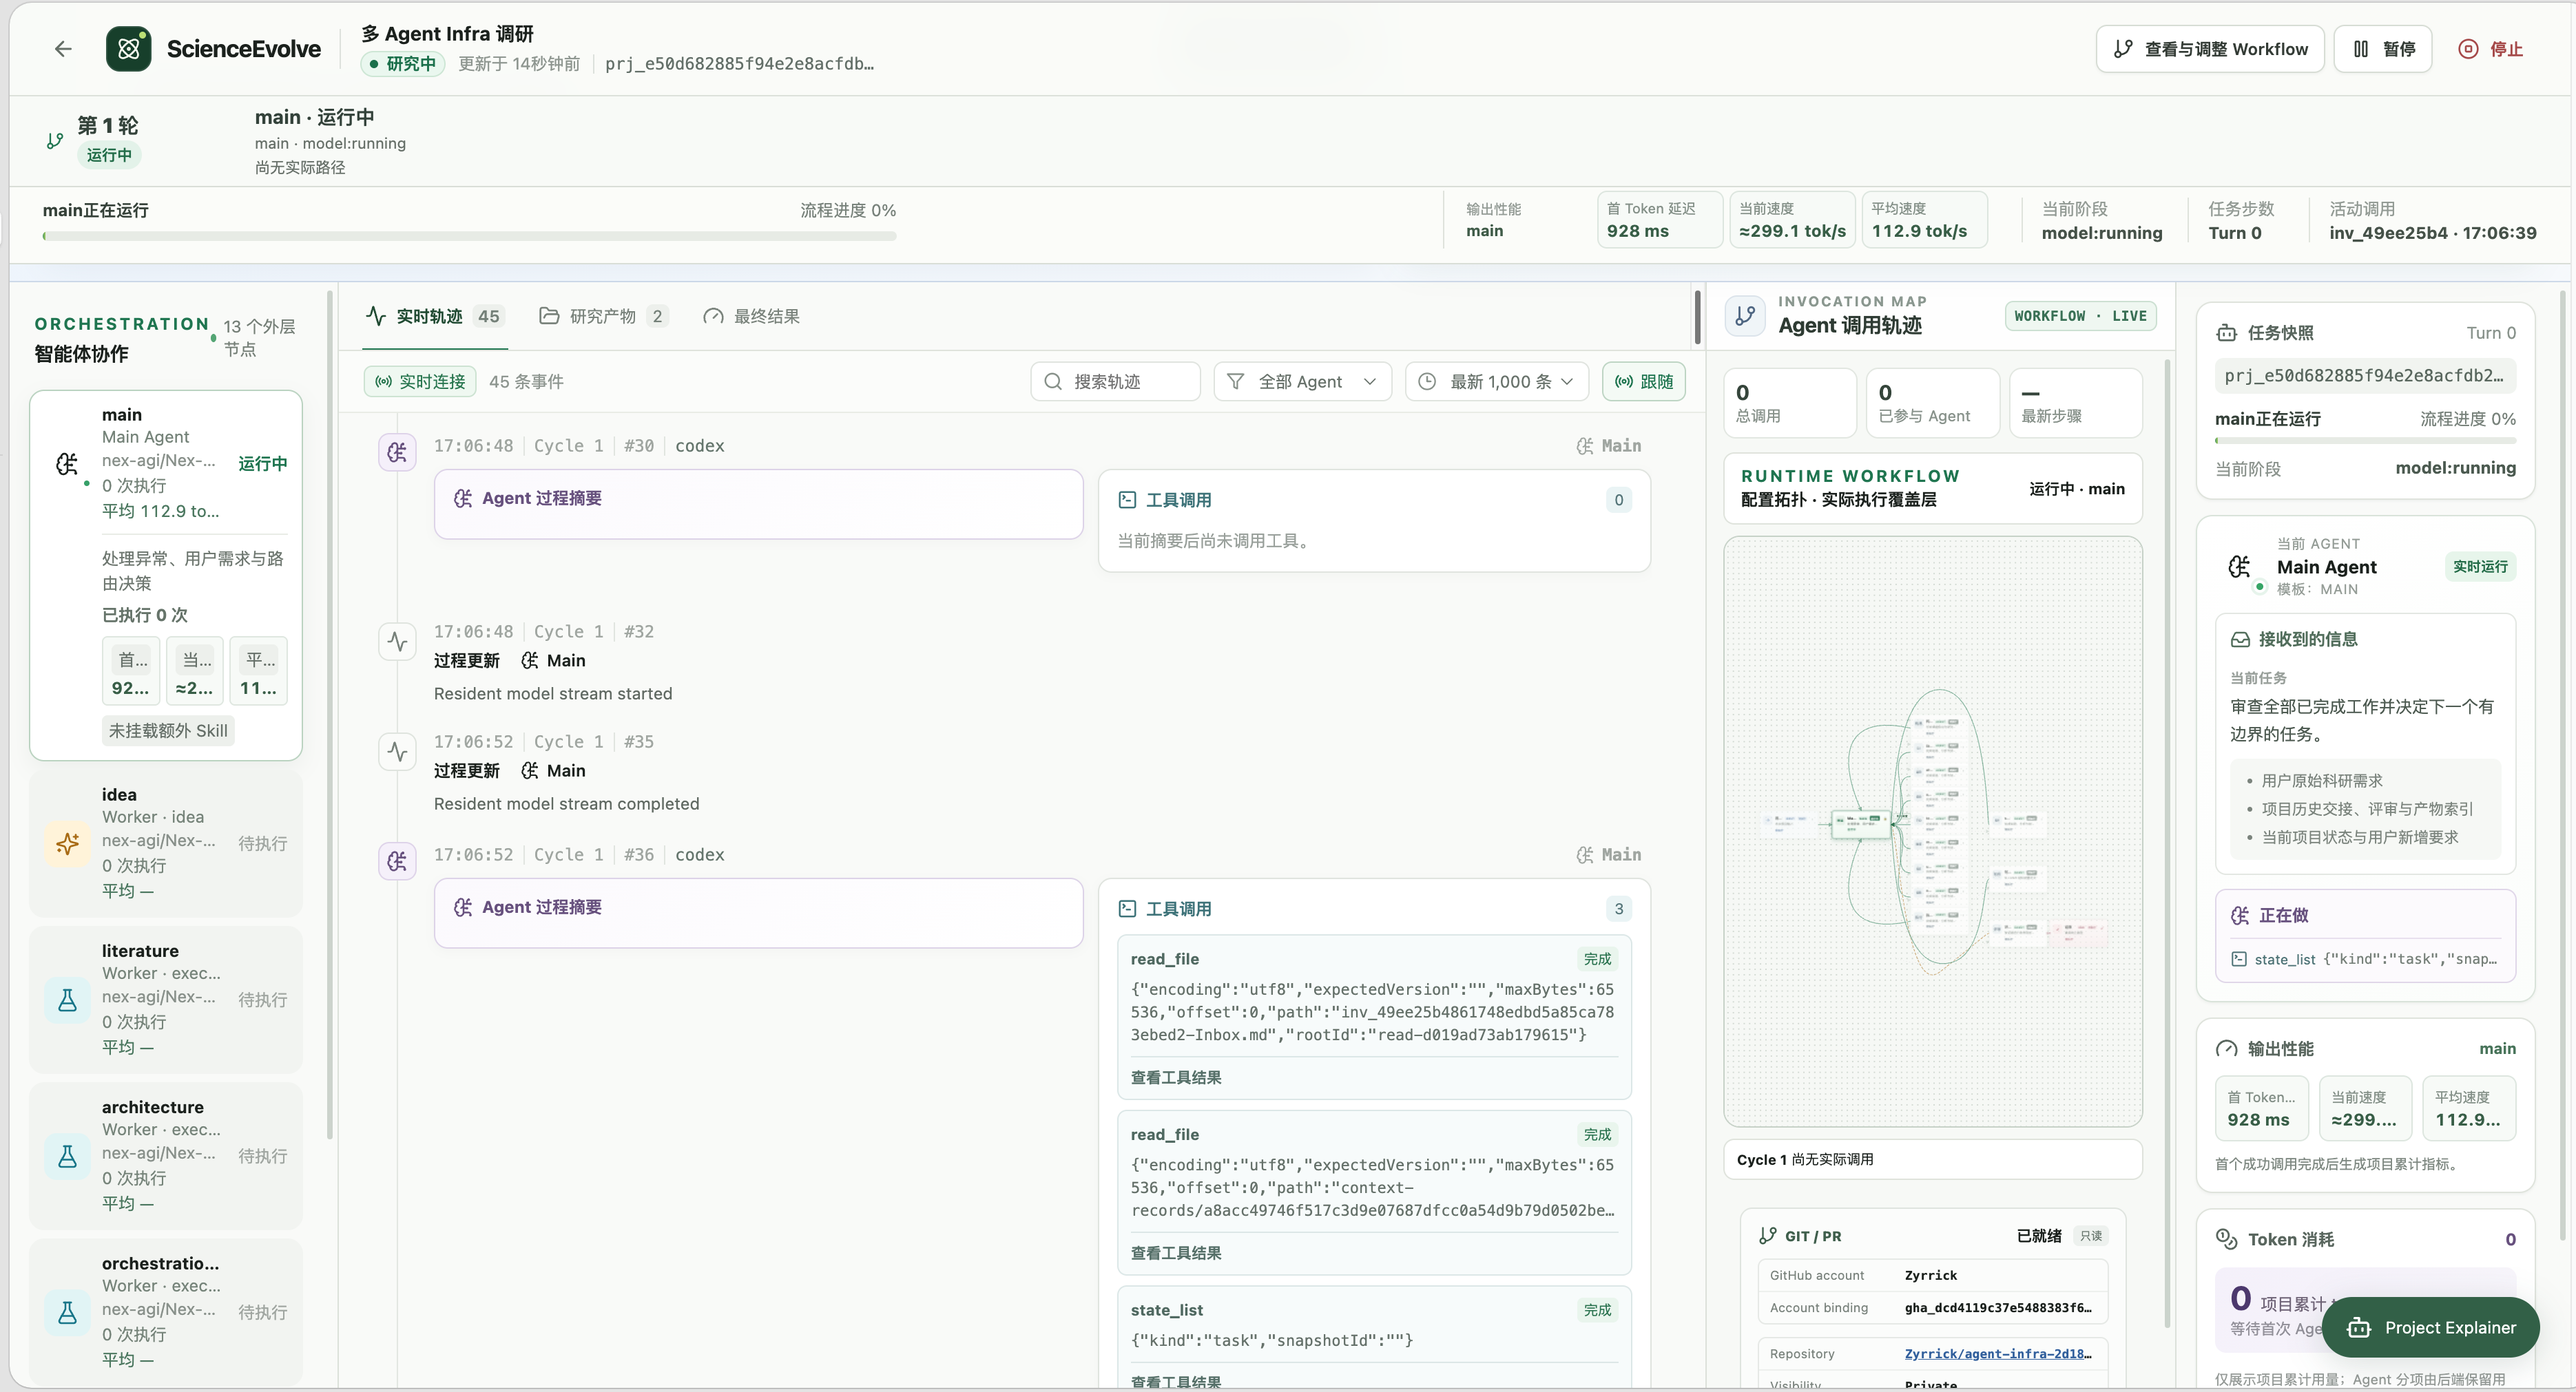
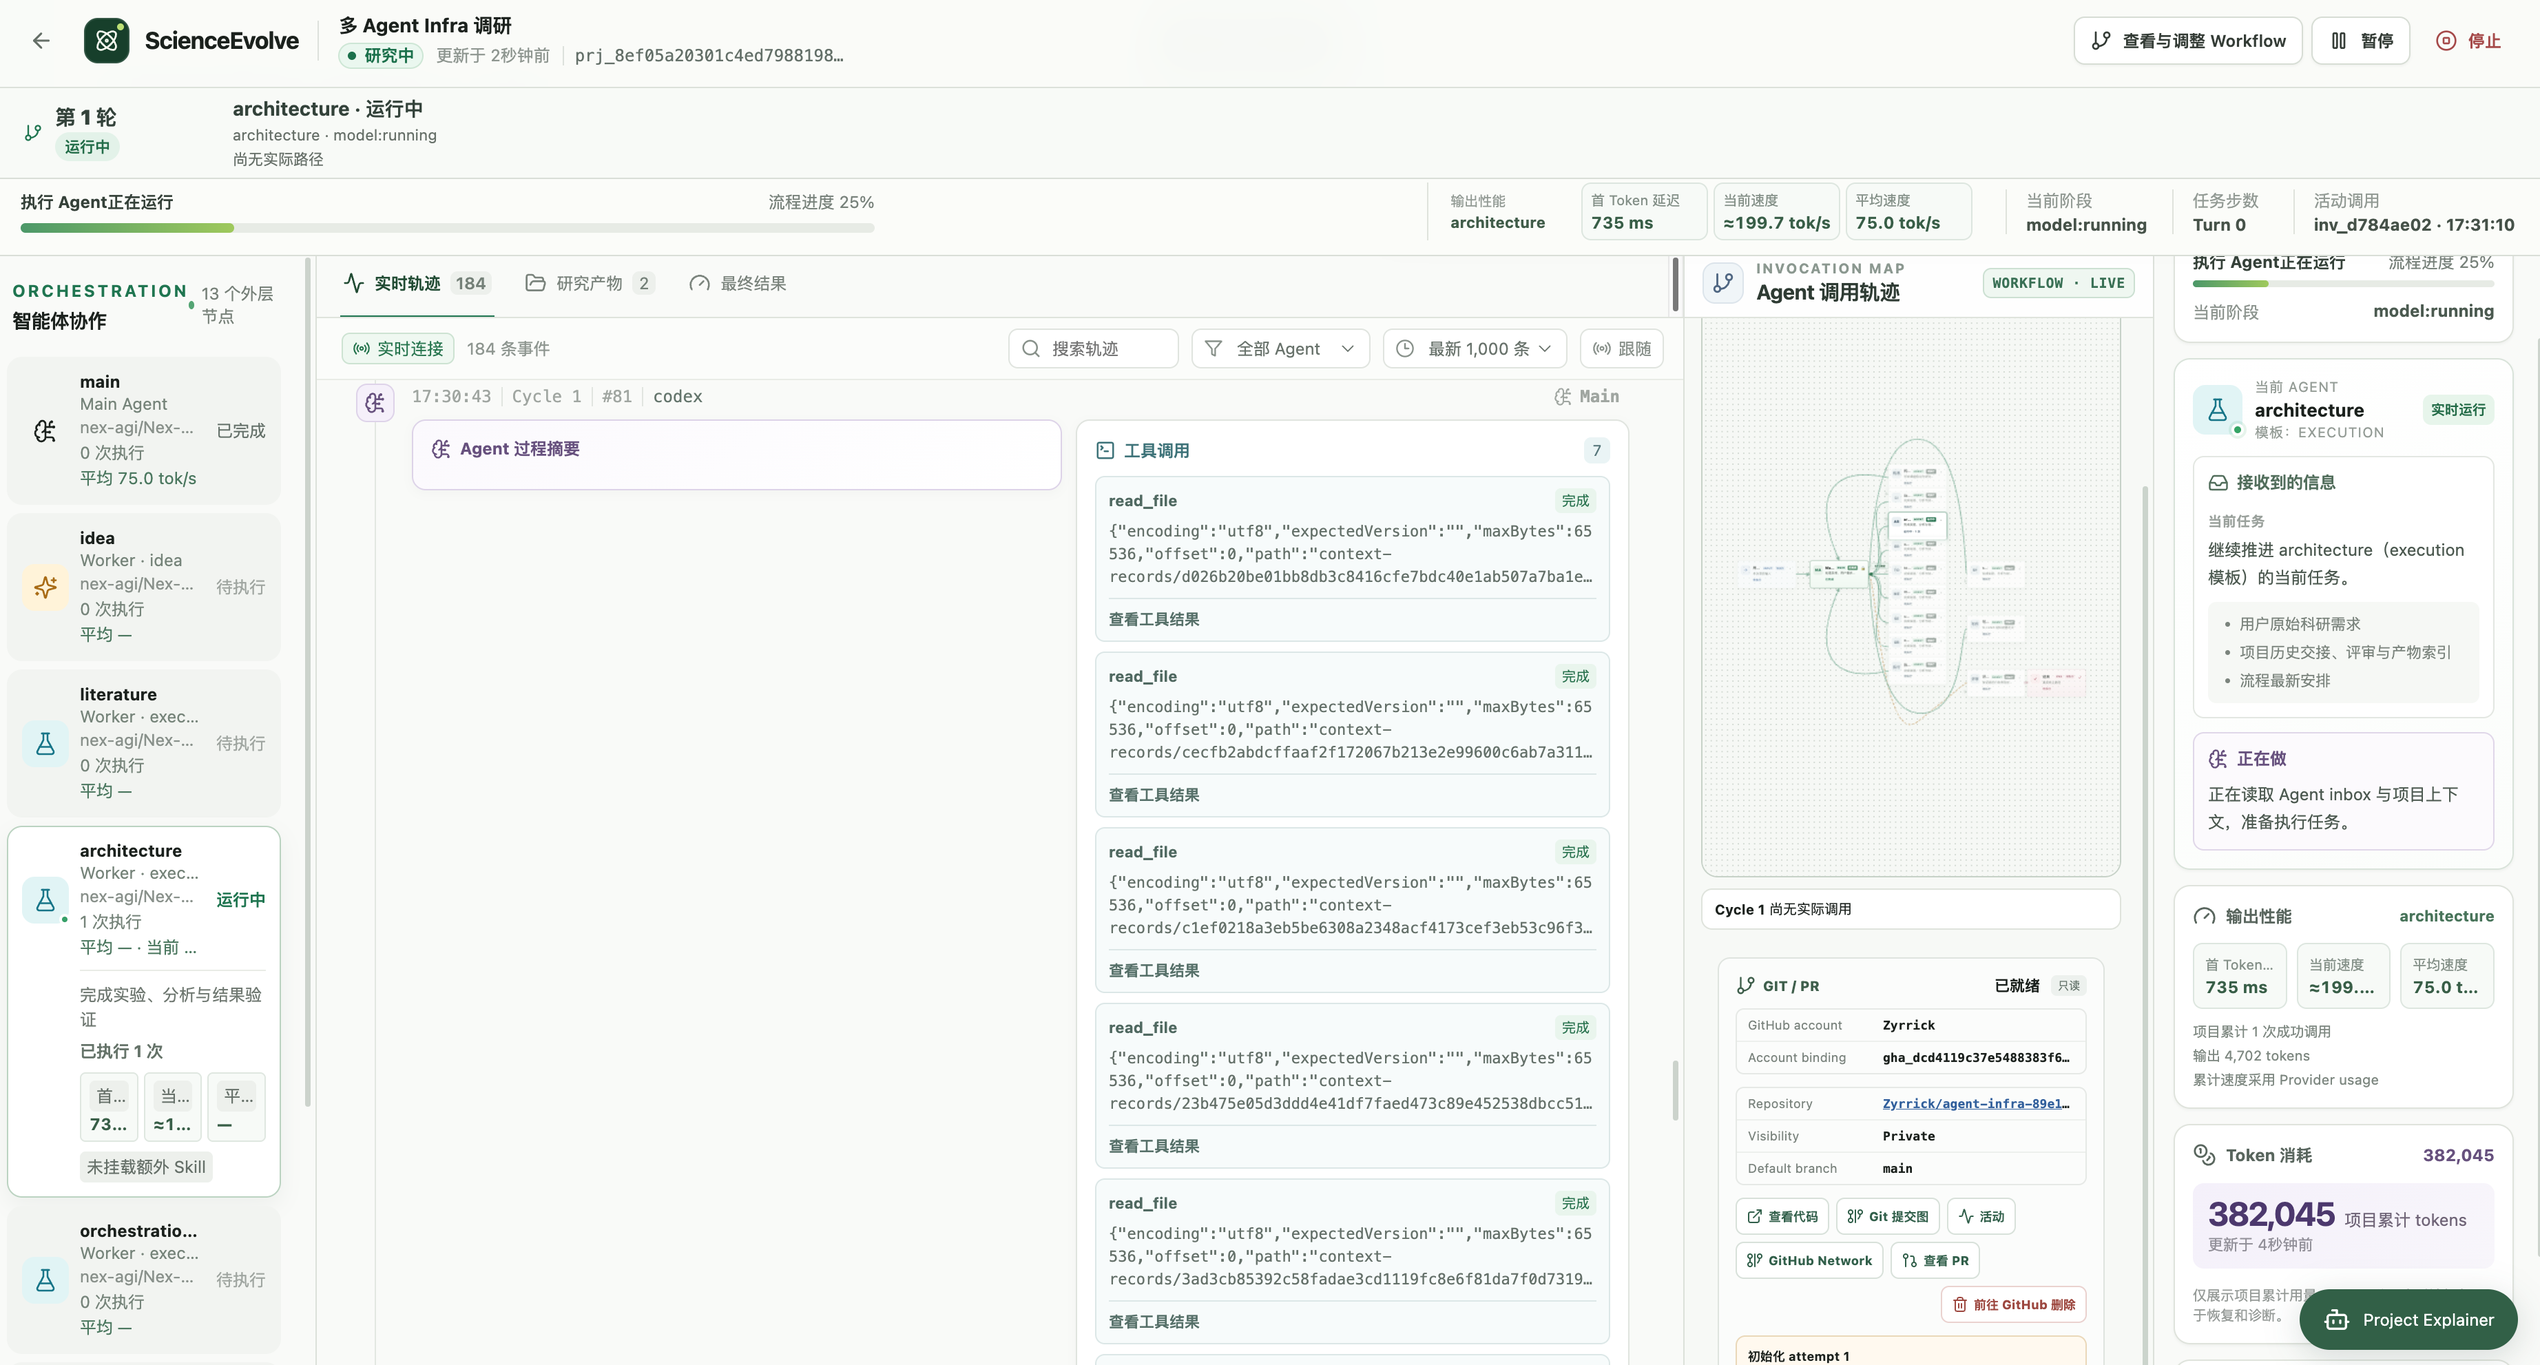
docs: refresh runtime monitoring screenshot and captions

diff --git a/README.md b/README.md
@@ -21,10 +21,10 @@
 
 <p align="center">
   <a href="docs/readme/screenshots/home.png"><img src="docs/readme/screenshots/home.png" alt="ScienceEvolve home: launch and manage research projects" title="Home — click to enlarge" width="32%"></a>
-  <a href="docs/readme/screenshots/project-execution.png"><img src="docs/readme/screenshots/project-execution.png" alt="Project execution: Agent activity, traces, runtime workflow, and performance" title="Project execution — click to enlarge" width="32%"></a>
+  <a href="docs/readme/screenshots/project-execution.png"><img src="docs/readme/screenshots/project-execution.png" alt="Runtime Monitoring: Agent activity, traces, runtime workflow, and performance" title="Runtime Monitoring — click to enlarge" width="32%"></a>
   <a href="docs/readme/screenshots/workflow-editor.png"><img src="docs/readme/screenshots/workflow-editor.png" alt="Workflow editor: connect Agents and configure their Harness, model, and tools" title="Workflow editor — click to enlarge" width="32%"></a>
   <br>
-  <sub>Home &nbsp; · &nbsp; Project execution &nbsp; · &nbsp; Workflow editor</sub>
+  <sub>Home &nbsp; · &nbsp; Runtime Monitoring &nbsp; · &nbsp; Workflow editor</sub>
 </p>
 
 ---

diff --git a/README_zh-CN.md b/README_zh-CN.md
@@ -21,10 +21,10 @@
 
 <p align="center">
   <a href="docs/readme/screenshots/home.png"><img src="docs/readme/screenshots/home.png" alt="ScienceEvolve 主页：发起和管理研究课题" title="主页 · 点击查看大图" width="32%"></a>
-  <a href="docs/readme/screenshots/project-execution.png"><img src="docs/readme/screenshots/project-execution.png" alt="项目运行界面：查看 Agent 活动、执行轨迹、运行工作流与性能" title="项目运行 · 点击查看大图" width="32%"></a>
+  <a href="docs/readme/screenshots/project-execution.png"><img src="docs/readme/screenshots/project-execution.png" alt="运行监控：查看 Agent 活动、执行轨迹、运行工作流与性能" title="运行监控 · 点击查看大图" width="32%"></a>
   <a href="docs/readme/screenshots/workflow-editor.png"><img src="docs/readme/screenshots/workflow-editor.png" alt="Workflow 编排界面：连接 Agent，配置 Harness、模型和工具" title="Workflow 编排 · 点击查看大图" width="32%"></a>
   <br>
-  <sub>主页 &nbsp; · &nbsp; 项目运行 &nbsp; · &nbsp; Workflow 编排</sub>
+  <sub>主页 &nbsp; · &nbsp; 运行监控 &nbsp; · &nbsp; Workflow 编排</sub>
 </p>
 
 ---
